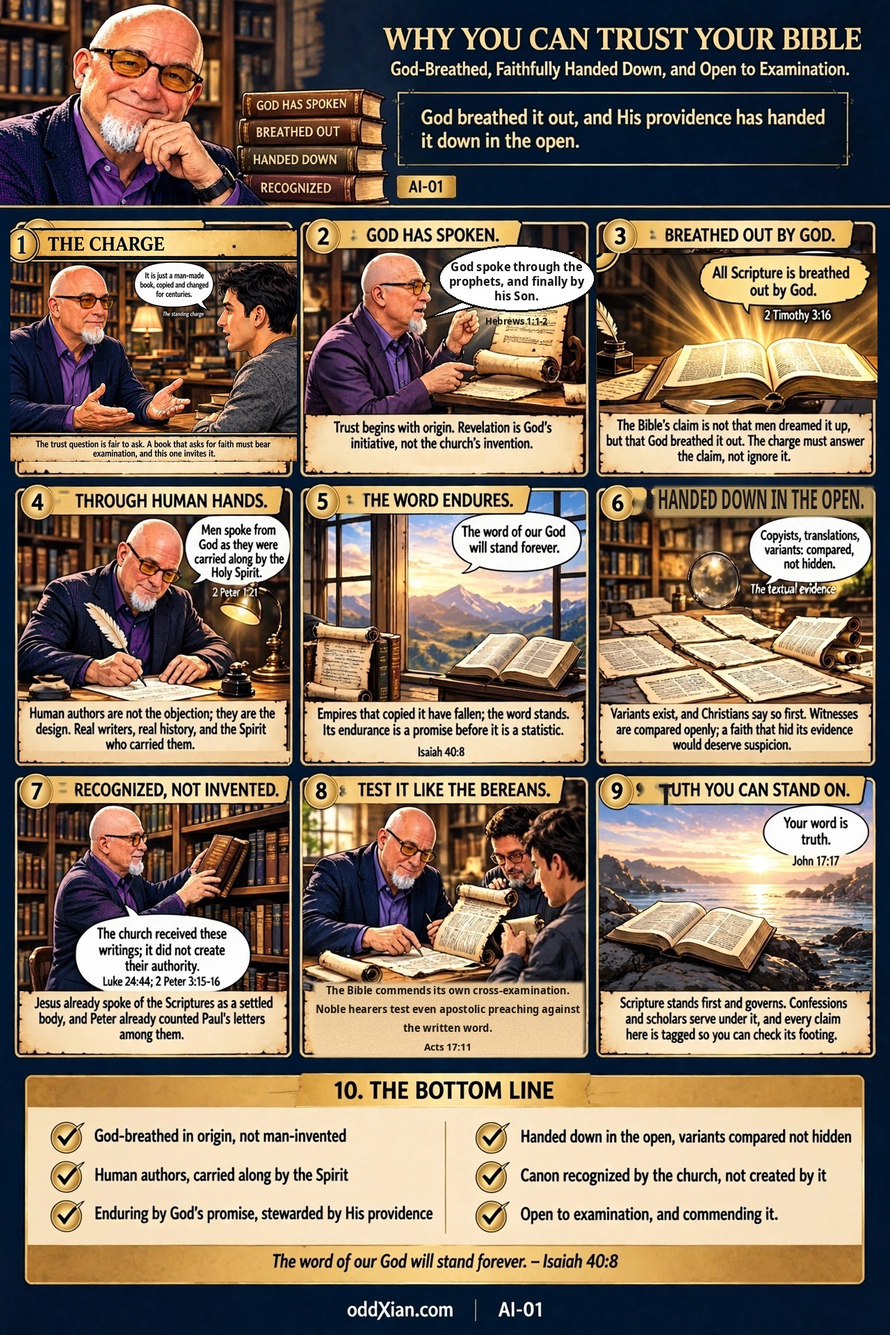
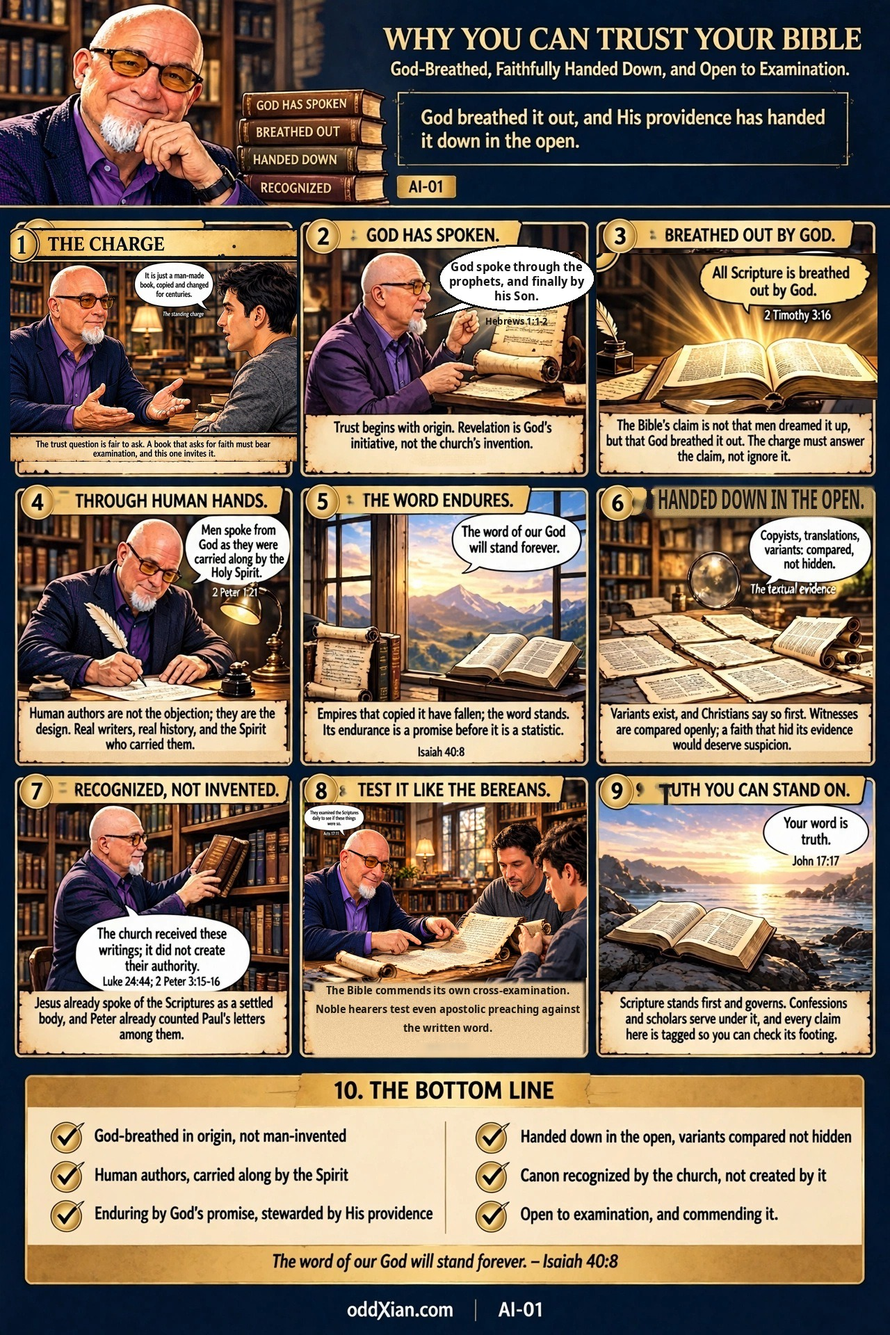
AI-01 revision 4: panel 8 speech bubble restored; host likeness from JD photo
JD supplied a real photograph as the likeness source and directed the outstanding QA fixes. An illustrated portrait was generated from the photo and is now the standing likeness reference (recorded in STYLE-GUIDE.md). Panel 8 scene replaced with a generation drawn from that portrait, carrying the scripted bubble and Acts 17:11 beneath it; the duplicate caption-foot reference was erased. Pixel diff confirms no change outside panel 8. Repairs disclosed in TRANSCRIPTION.md and QA-LOG.md.

Human-Curated, AI-Enabled (HCAE)

Changed region(s): [[0.3438, 0.5938, 0.6562, 0.75]]

diff --git a/apologetics-illustrated/volumes/AI-01/TRANSCRIPTION.md b/apologetics-illustrated/volumes/AI-01/TRANSCRIPTION.md
@@ -1,7 +1,16 @@
 # AI-01 Transcription and QA Record
 
-**Plate:** plate.jpg, revision 3 (1280 x 1920 JPEG, 1,015,951 bytes, SHA-256 5b1d06f05611223dfce74cbcce64fb0a841d705d0de9abe340626a032b5b2dcc)
+**Plate:** plate.jpg, revision 4 (1280 x 1920 JPEG, 974,064 bytes, SHA-256 b10812b4559647c278c1b3da8e5524ab0d92c95ca66c1780a85bf71ffb2e3723)
 **Produced:** 2026-11-01 by thinx-muse. **Status:** graphic-draft, QA passed with disclosed repairs, awaiting JD approval.
+
+## Revision 4 (2026-11-01): panel 8 completed; host likeness from JD's photo
+
+JD supplied a real photograph of himself as the likeness source and directed the outstanding QA fixes. Two changes, both confined to panel 8 (a pixel diff against revision 3 confirms nothing outside panel 8 changed):
+
+- Panel 8's scene was replaced with a new wide generation whose host is drawn from the illustrated portrait generated from JD's photo (the portrait and photo are now the program's standing likeness references, filed with the brand assets). The new scene carries the panel's speech bubble at last: "They examined the Scriptures daily to see if these things were so." with "Acts 17:11" printed beneath the bubble, verified letter by letter at 4x. The scene was cropped from the generation and scaled into the panel's scene frame with a mild (about 8 percent) horizontal squeeze to the frame's aspect. The revision 1 to 3 deviation (no panel 8 bubble) is closed.
+- The duplicate "Acts 17:11" at the foot of panel 8's caption, placed there in revision 3 because the bubble was missing, was erased with a local parchment patch now that the reference rides with the bubble, matching every other panel. The caption's three lines are the plate's own lettering, untouched.
+
+Remaining deviations, unchanged from revision 3: the header framing box carries the one-line answer only (objection in full in panel 1); panel 3's bubble is parchment-toned; panel 10's closing panel is cream and gold rather than navy.
 
 ## Revision history
 
@@ -40,7 +49,7 @@ Deviations recorded for JD's ruling:
 - Corpus discipline verified as in earlier revisions: preservation promise and preservation inference kept separate (panels 5 and 6); no numeric manuscript claims (the corpus holds none; the IS-03 narrative lists that research as outstanding); panel 7 worded at the IS-03 register's UNCERTAIN strength for the canon formulation.
 - No anthropomorphic depiction of divine Persons; no claim that every manuscript or canon decision is infallible.
 
-## Transcription (as printed on the revision 3 plate)
+## Transcription (as printed on the revision 4 plate)
 
 Header: WHY YOU CAN TRUST YOUR BIBLE / God-Breathed, Faithfully Handed Down, and Open to Examination. / Spines: GOD HAS SPOKEN / BREATHED OUT / HANDED DOWN / RECOGNIZED / Framing box: God breathed it out, and His providence has handed it down in the open. / AI-01
 
@@ -51,7 +60,7 @@ Panel 4 (badge 4) THROUGH HUMAN HANDS. "Men spoke from God as they were carried 
 Panel 5 (badge 5) THE WORD ENDURES. "The word of our God will stand forever." Caption: Empires that copied it have fallen; the word stands. Its endurance is a promise before it is a statistic. Isaiah 40:8 (printed at the foot of the caption).
 Panel 6 (badge 6) HANDED DOWN IN THE OPEN. "Copyists, translations, variants: compared, not hidden." (The textual evidence.) Caption: Variants exist, and Christians say so first. Witnesses are compared openly; a faith that hid its evidence would deserve suspicion.
 Panel 7 (badge 7) RECOGNIZED, NOT INVENTED. "The church received these writings; it did not create their authority." Luke 24:44; 2 Peter 3:15-16. Caption: Jesus already spoke of the Scriptures as a settled body, and Peter already counted Paul's letters among them.
-Panel 8 (badge 8) TEST IT LIKE THE BEREANS. (No speech bubble; see deviations.) Caption: The Bible commends its own cross-examination. Noble hearers test even apostolic preaching against the written word. Acts 17:11 (printed at the foot of the caption).
+Panel 8 (badge 8) TEST IT LIKE THE BEREANS. "They examined the Scriptures daily to see if these things were so." Acts 17:11 (printed beneath the bubble). Caption: The Bible commends its own cross-examination. Noble hearers test even apostolic preaching against the written word.
 Panel 9 (badge 9) TRUTH YOU CAN STAND ON. "Your word is truth." John 17:17. Caption: Scripture stands first and governs. Confessions and scholars serve under it, and every claim here is tagged so you can check its footing.
 Panel 10. THE BOTTOM LINE. God-breathed in origin, not man-invented / Human authors, carried along by the Spirit / Enduring by God's promise, stewarded by His providence / Handed down in the open, variants compared not hidden / Canon recognized by the church, not created by it / Open to examination, and commending it. Closing: "The word of our God will stand forever." Isaiah 40:8.
 

diff --git a/apologetics-illustrated/volumes/AI-01/PANEL-SCRIPT.md b/apologetics-illustrated/volumes/AI-01/PANEL-SCRIPT.md
@@ -1,6 +1,6 @@
 # AI-01 | Why You Can Trust Your Bible
 
-**Program:** Apologetics Illustrated (defending the faith). **Status:** Script draft for JD review, 2026-11-01; plate at revision 3 in PR #25. **Graphic footer:** oddXian.com | AI-01. **Style:** the Illustrated Systematics style guide (ten panels, navy/gold/parchment; symbolic rather than anthropomorphic depictions of divine Persons). The host follows JD's oddXian exemplar: bald, white goatee, clean-shaven upper lip, amber-tinted glasses, purple shirt and navy blazer for this volume. Panel numbers appear only in the gold badge, never in panel title text (JD ruling, 2026-11-01). **Companion narrative:** NARRATIVE.md.
+**Program:** Apologetics Illustrated (defending the faith). **Status:** Script draft for JD review, 2026-11-01; plate at revision 4 in PR #25. **Graphic footer:** oddXian.com | AI-01. **Style:** the Illustrated Systematics style guide (ten panels, navy/gold/parchment; symbolic rather than anthropomorphic depictions of divine Persons). The host follows JD's oddXian exemplar: bald, white goatee, clean-shaven upper lip, amber-tinted glasses, purple shirt and navy blazer for this volume. Panel numbers appear only in the gold badge, never in panel title text (JD ruling, 2026-11-01). **Companion narrative:** NARRATIVE.md.
 
 ## The objection
 
@@ -77,8 +77,8 @@ On the plate, panel titles carry no numbers; the gold badge carries the panel nu
 
 ### Panel 8: Test It Like the Bereans (RESPONSE)
 - **Scene:** the host examining an open scroll at a table with two other men.
-- **Bubble:** none on the plate (deviation carried since revision 1; the generator omits it). The scripted text stands here and in the narrative: "They examined the Scriptures daily to see if these things were so."
-- **Bubble reference:** Acts 17:11 (close paraphrase; the narrative carries the exact text check). On the plate the reference stands at the foot of the caption.
+- **Bubble:** "They examined the Scriptures daily to see if these things were so." (on the plate since revision 4; revisions 1 to 3 omitted it)
+- **Bubble reference:** Acts 17:11 (close paraphrase; the narrative carries the exact text check). On the plate the reference is printed beneath the bubble.
 - **Caption:** The Bible commends its own cross-examination. Noble hearers test even apostolic preaching against the written word.
 - **Claim 01-8:** Scripture commends testing claims against Scripture, and reading parts within the whole counsel. Classification: Direct Teaching with hermeneutical application. Source: IS-03 panel 7; Acts 17:11; Luke 24:27.
 
@@ -107,7 +107,7 @@ On the plate, panel titles carry no numbers; the gold badge carries the panel nu
 3. **Preservation mechanism.** Corpus position: preservation is inference from sovereignty plus the enduring word, not a demonstrated mechanism. Panels 5 and 6 keep the promise and the inference visibly separate.
 
 ## Visual QA checklist (per QA-PROCESS; full record in TRANSCRIPTION.md)
-- [x] Revision 3 (2026-11-01): every element verified from magnified crops against this script: PASS with disclosed repairs (itemized in TRANSCRIPTION.md)
+- [x] Revision 4 (2026-11-01): panel 8 completed (bubble and reference on the plate, duplicate caption-foot reference removed); every changed element verified from magnified crops against this script: PASS with disclosed repairs (itemized in TRANSCRIPTION.md). Revision 3 record stands below it in the same file.
 - [x] oddXian.com and AI-01 legible in the footer (in the original artwork)
 - [x] No anthropomorphic depiction of divine Persons
 - [x] No claim that every manuscript or canon decision is infallible

diff --git a/apologetics-illustrated/QA-LOG.md b/apologetics-illustrated/QA-LOG.md
@@ -31,4 +31,10 @@
 - Deviations carried forward: panel 8 still has no speech bubble (the scripted close paraphrase stands in the narrative); the header framing box carries the answer line only, with the objection in full in panel 1; panel 3's bubble is parchment-toned rather than white (composited scene); panel 10's closing panel is cream and gold rather than the navy treatment of revision 2 (both revision 3 generations produced this design independently).
 - Standing lessons added: (1) a full-plate reference image overpowers text instructions in the generator; reference weighting decides which instructions survive. (2) Programmatic repairs must be located from magnified crops that have actually been read, never from grid assumptions; three patch attempts failed on unverified coordinates before the crop-first method closed them. (3) A median-filter pass removes small dark glyphs on parchment cleanly and is the first tool for that class of defect.
 
+### 2026-11-01: AI-01 revision 4 (QA fixes; likeness from JD's photo)
+
+- JD supplied a real photograph of himself as the likeness source and directed the outstanding QA fixes. An illustrated portrait of JD was generated from the photo (with the style guide and exemplar as references) and is filed with the brand assets as the program's standing likeness reference, alongside the photo.
+- Panel 8's scene was replaced with a new generation drawn from that portrait reference, carrying the panel's speech bubble ("They examined the Scriptures daily to see if these things were so." / Acts 17:11 beneath the bubble, verified letter by letter at 4x). The revision 1 to 3 deviation is closed. The duplicate Acts 17:11 at the caption foot was erased with a local parchment patch; the caption's own lettering is untouched. A pixel diff against revision 3 confirms no change outside panel 8.
+- Disclosure: the scene was cropped from its generation and scaled into the panel frame with a mild (about 8 percent) horizontal squeeze to the frame's aspect. Remaining deviations are unchanged (header framing box answer only; panel 3 parchment-toned bubble; panel 10 cream and gold).
+
 Human-Curated, AI-Enabled (HCAE)

diff --git a/apologetics-illustrated/STYLE-GUIDE.md b/apologetics-illustrated/STYLE-GUIDE.md
@@ -13,6 +13,7 @@ The governing visual document is the Visual Series Style Guide of the systematic
 - **Voicing rule (JD ruling, 2026-11-01):** the objection or charge is voiced by an interlocutor figure, never by the host. In an OBJECTION panel the host listens; he does not make the charge.
 - **Rendering:** vibrant, rich, full-color modern editorial illustration. Sepia treatments and vintage-engraving looks are a style failure, however good the lettering.
 - **Production rule:** every plate generation passes the Visual Series Style Guide image and at least one approved exemplar plate to the generator as image references. Text-only style prompts have already failed once (AI-01 revision 1, superseded 2026-11-01).
+- **Likeness reference of record (JD direction, 2026-11-01):** JD supplied a real photograph of himself so the host is drawn from his actual appearance. The photo and the illustrated portrait generated from it are filed with the brand assets (jd-likeness-photo.jpg, jd-host-illustrated.jpg, with a JD-LIKENESS.md note). Host generations pass the portrait (and the photo) as identity references together with the style guide and exemplar.
 - **Palette:** the style guide's 8-color shirt rotation for the host, volume by volume; navy, gold, and parchment as the plate's governing colors.
 - **Header treatment:** main title, subtitle, framing box, book stack, volume marker. In this program the framing box carries the framing objection and the one-line answer (see the panel script template).
 - **Panel furniture:** numbered panels, each with a title, a scene, a quotation bubble with its reference, and a parchment caption carrying the takeaway, matching the teaching-plate anatomy the seed plate (God and Slavery) already uses.
